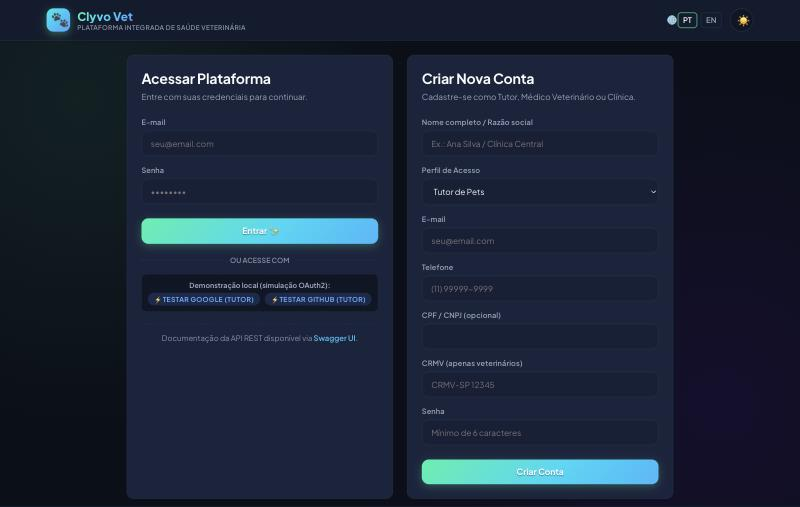
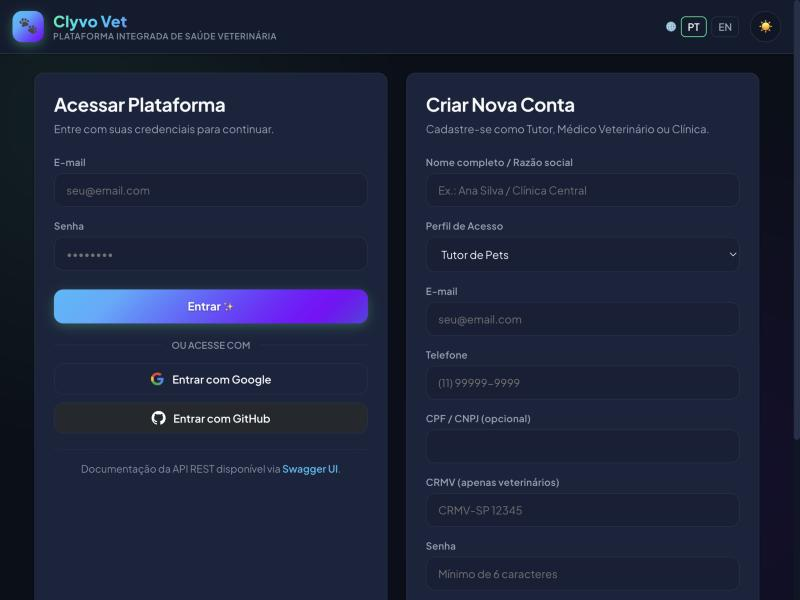
docs: print do login online com os botões do Google e do GitHub

diff --git a/docs/prototipo/README.md b/docs/prototipo/README.md
@@ -4,7 +4,7 @@ Telas reais do Clyvo Vet, capturadas da aplicação rodando com os dados de demo
 
 | # | Tela | O que mostra |
 |:-:|---|---|
-| 1 | ![Login](01-login.jpg) | **Login e cadastro** com os três perfis, login social (OAuth2 Google/GitHub) e acesso ao Swagger. |
+| 1 | ![Login](01-login.jpg) | **Login e cadastro** com os três perfis, login social com Google e GitHub (OAuth2, na aplicação online em HTTPS) e acesso ao Swagger. |
 | 2 | ![Painel do tutor](02-tutor-agendamento.jpg) | **Tutor:** cadastro de pet, agendamento de consulta (presencial ou telemedicina) e concessão de acesso ao prontuário. |
 | 3 | ![Prontuário e consentimentos](03-tutor-prontuario-consentimentos.jpg) | **Tutor:** prontuário emitido pelo veterinário e consentimentos ativos, com o botão de revogar (LGPD). |
 | 4 | ![Assistente de IA](04-vet-assistente-ia.jpg) | **Veterinário:** assistente de IA da teleconsulta. A transcrição vira diagnóstico, prescrição, orientações, resumo para o tutor e sinais de alerta. |
